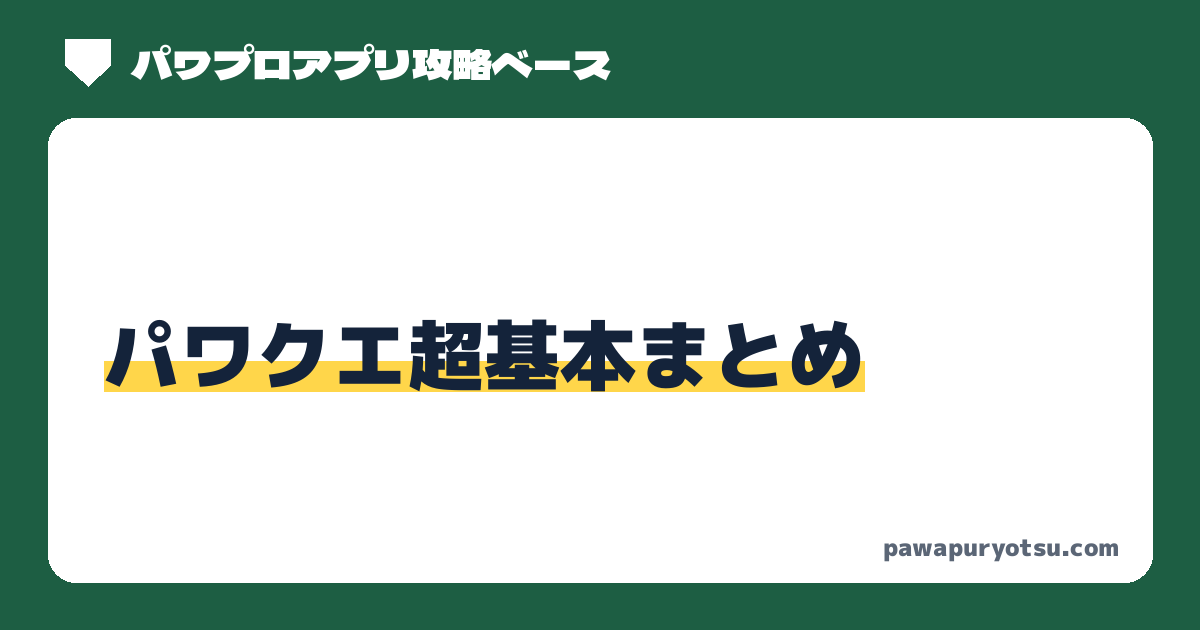
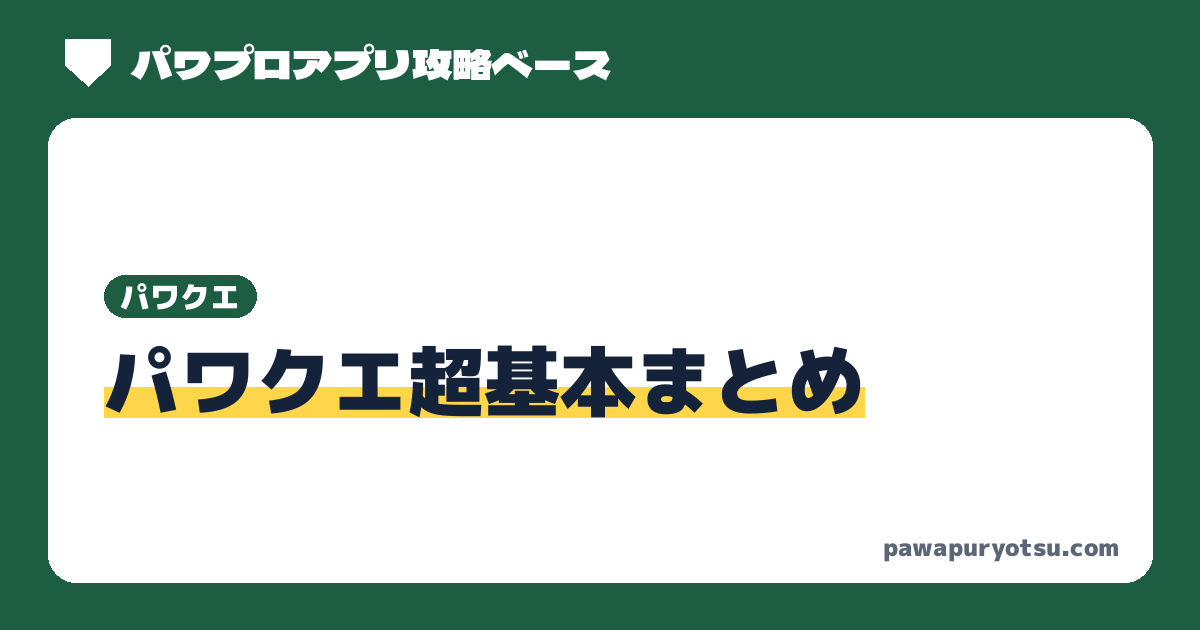
トップ「最近の更新」でパワクエのページに「・パワクエ」を表示
pawaque/ の下のページにカテゴリ名「パワクエ」を付ける（SNS共有画像のラベルも同じ）。

Claude-Session: https://claude.ai/code/session_019YJeT1p4wPP7UwT9VmtW1r

Changed region(s): [[0.0617, 0.4222, 0.74, 0.6635]]

diff --git a/docs/index.html b/docs/index.html
@@ -72,7 +72,7 @@
 </section>
 
 <h2 class="sec"><span class="mk red"><i>最近の更新</i></span></h2>
-<!--recent--><ul class="news recent"><li class=rc-noimg><a href="./pawaque/mission/"><span><small class="rc-meta">2026/11/14 更新</small><b>ミッション報酬まとめ</b></span></a></li><li class=rc-noimg><a href="./pawaque/basics/"><span><small class="rc-meta">2026/11/14 更新</small><b>パワクエ超基本まとめ</b></span></a></li><li class=rc-noimg><a href="./guide/limit_break/"><span><small class="rc-meta">2026/11/12 更新・ガイド</small><b>イベキャラの上限開放のルール</b></span></a></li><li><a href="./gacha/2026_1111_shampoo/"><img class="news-icon" src="./img/chars/0042.png" alt="" width="44" height="44" loading="lazy"><span><small class="rc-meta">2026/11/12 更新・ガチャ</small><b>シャンプー<wbr><span class="cp-nw">のガチャは引くべき？</span></b></span></a></li><li><a href="./gacha/2026_1104_ranma_akane/"><img class="news-icon" src="./img/chars/0002.png" alt="" width="44" height="44" loading="lazy"><span><small class="rc-meta">2026/11/12 更新・ガチャ</small><b>早乙女乱馬・天道あかね<wbr><span class="cp-nw">のガチャは引くべき？</span></b></span></a></li><li class=rc-noimg><a href="./ranking/next_batter/"><span><small class="rc-meta">2026/11/12 更新・ランキング</small><b>次期野手シナリオ 有能キャラ予想</b></span></a></li><li><a href="./chars/0042/"><img class="news-icon" src="./img/chars/0042.png" alt="" width="44" height="44" loading="lazy"><span><small class="rc-meta">2026/11/12 更新・イベキャラ</small><b>シャンプー<wbr><span class="cp-nw">のイベント・評価</span></b></span></a></li><li class=rc-noimg><a href="./ranking/roman/"><span><small class="rc-meta">2026/11/12 更新・ランキング</small><b>ロマン開花學園 11月ランキング</b></span></a></li></ul><!--/recent-->
+<!--recent--><ul class="news recent"><li class=rc-noimg><a href="./pawaque/mission/"><span><small class="rc-meta">2026/11/14 更新・パワクエ</small><b>ミッション報酬まとめ</b></span></a></li><li class=rc-noimg><a href="./pawaque/basics/"><span><small class="rc-meta">2026/11/14 更新・パワクエ</small><b>パワクエ超基本まとめ</b></span></a></li><li class=rc-noimg><a href="./guide/limit_break/"><span><small class="rc-meta">2026/11/12 更新・ガイド</small><b>イベキャラの上限開放のルール</b></span></a></li><li><a href="./gacha/2026_1111_shampoo/"><img class="news-icon" src="./img/chars/0042.png" alt="" width="44" height="44" loading="lazy"><span><small class="rc-meta">2026/11/12 更新・ガチャ</small><b>シャンプー<wbr><span class="cp-nw">のガチャは引くべき？</span></b></span></a></li><li><a href="./gacha/2026_1104_ranma_akane/"><img class="news-icon" src="./img/chars/0002.png" alt="" width="44" height="44" loading="lazy"><span><small class="rc-meta">2026/11/12 更新・ガチャ</small><b>早乙女乱馬・天道あかね<wbr><span class="cp-nw">のガチャは引くべき？</span></b></span></a></li><li class=rc-noimg><a href="./ranking/next_batter/"><span><small class="rc-meta">2026/11/12 更新・ランキング</small><b>次期野手シナリオ 有能キャラ予想</b></span></a></li><li><a href="./chars/0042/"><img class="news-icon" src="./img/chars/0042.png" alt="" width="44" height="44" loading="lazy"><span><small class="rc-meta">2026/11/12 更新・イベキャラ</small><b>シャンプー<wbr><span class="cp-nw">のイベント・評価</span></b></span></a></li><li class=rc-noimg><a href="./ranking/roman/"><span><small class="rc-meta">2026/11/12 更新・ランキング</small><b>ロマン開花學園 11月ランキング</b></span></a></li></ul><!--/recent-->
 
 <h2 class="sec"><span class="mk orange"><i>ガチャ</i></span></h2>
 <div class="grid2">

diff --git a/build.py b/build.py
@@ -216,7 +216,7 @@ def crumb_ld(chain):
 # SNSで共有したときの画像（og:image）。ページごとに docs/img/og/ に自動で作る（2026-11-12 管理人OK）
 import ogimage
 OG_LABEL = [("chars/", "イベキャラ"), ("gacha/", "ガチャ"), ("ranking/", "ランキング"), ("decks/", "デッキまとめ"),
-            ("deckbuild/", "デッキの組み方"), ("guide/", "ガイド")]
+            ("deckbuild/", "デッキの組み方"), ("guide/", "ガイド"), ("pawaque/", "パワクエ")]
 
 
 def og_image(meta, path):
